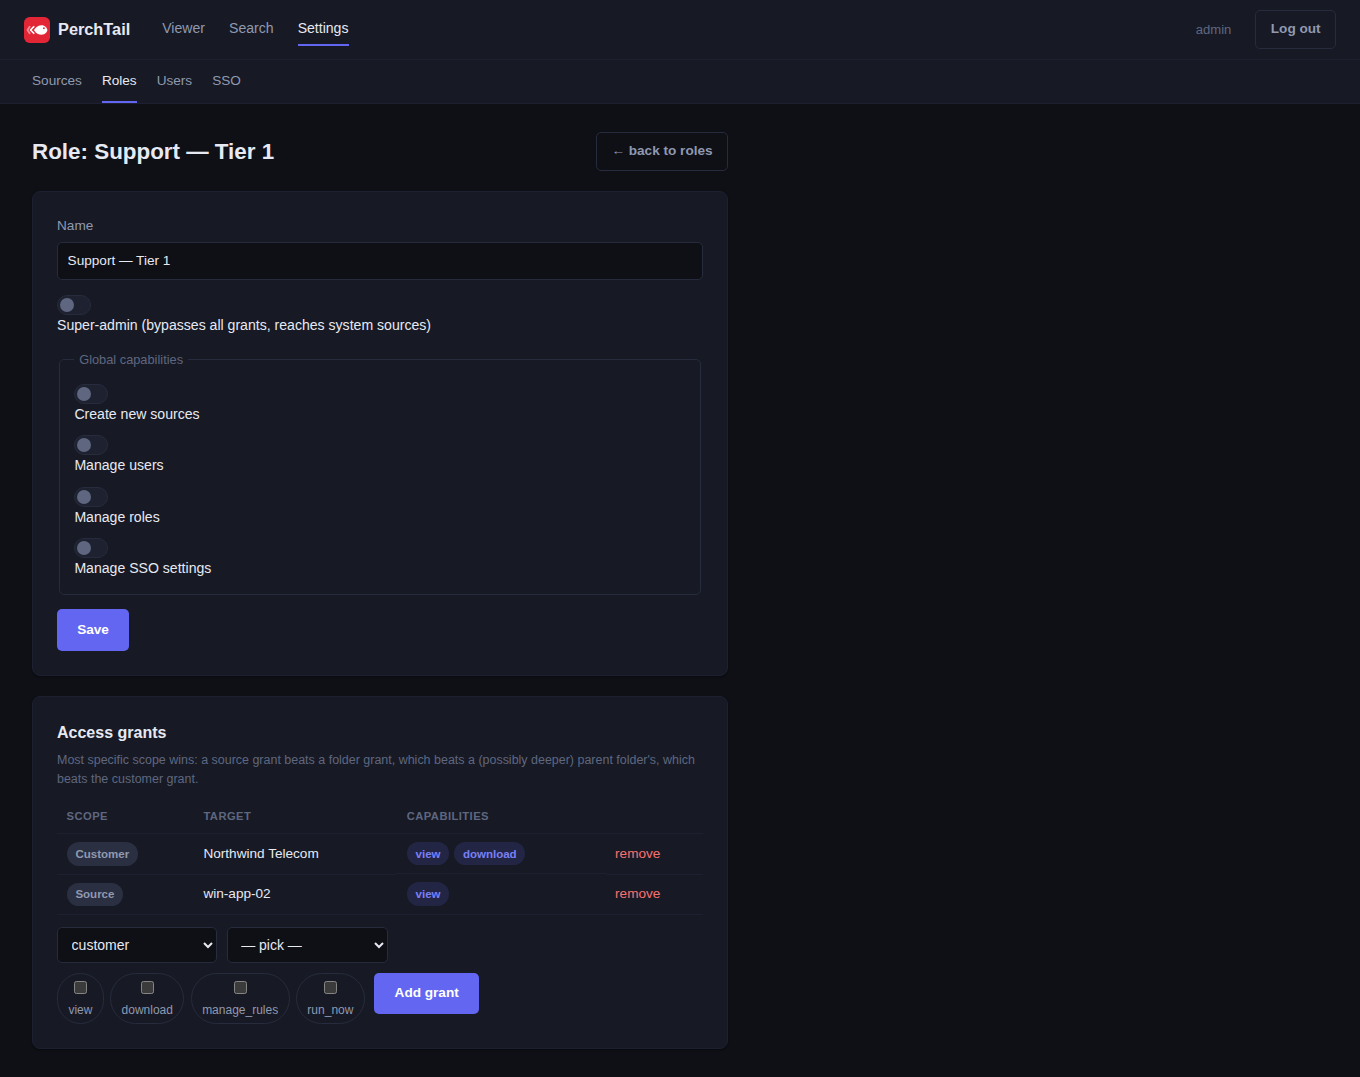
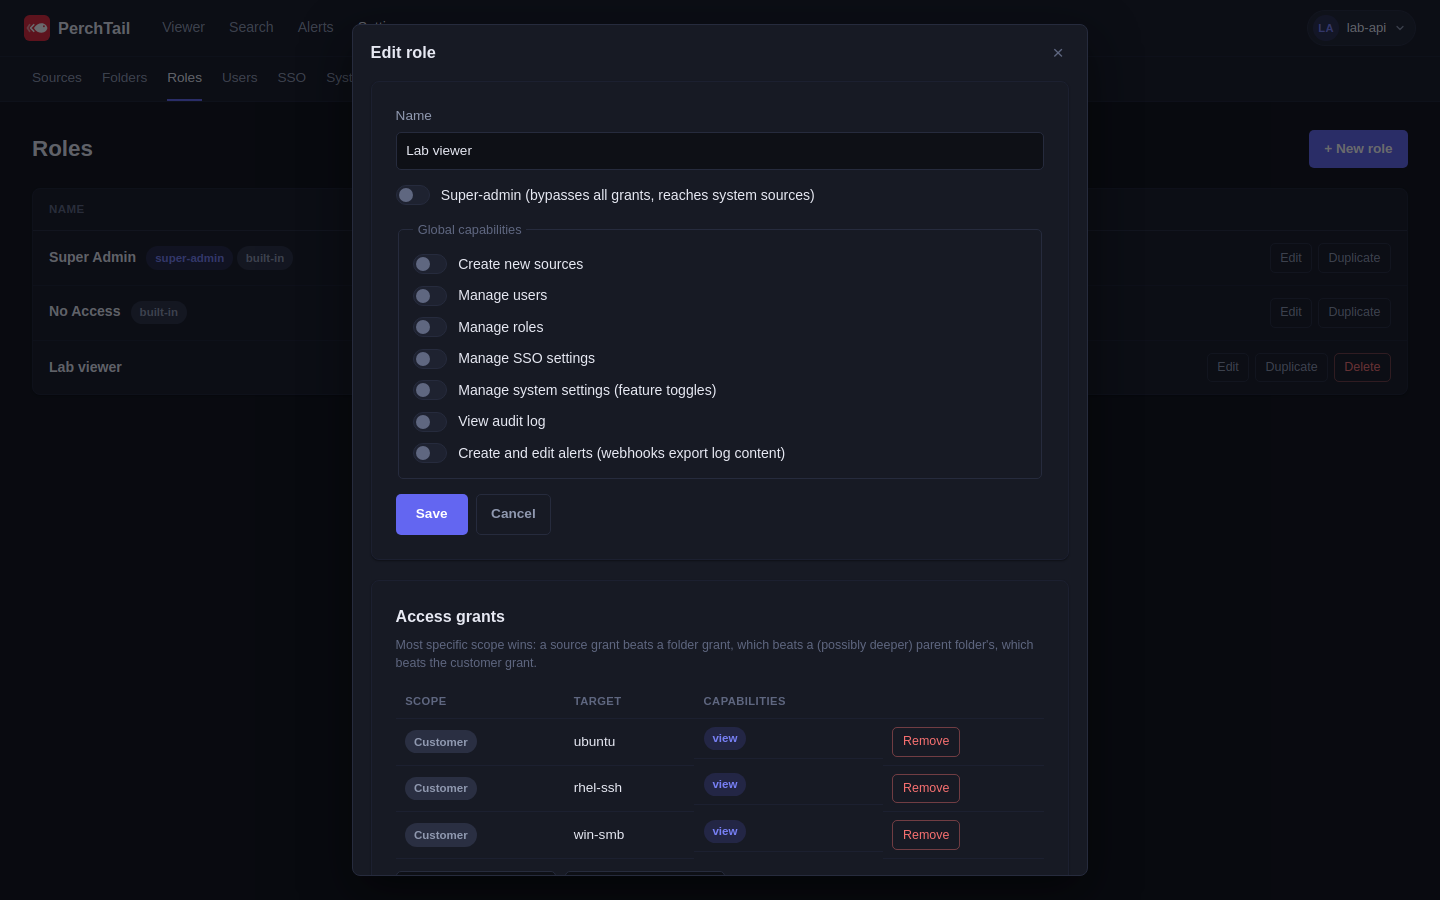
docs(readme): bring the README up to 0.6.0
The README still described 0.5.0. The status now lists what 0.6.0 does (sources incl. WinRM JEA and the push agent, the viewer, access, operations, security work) and what comes in 0.7 and 1.0; the Quick start pins the 0.6.0 image; the three screenshots are retaken from the lab on 0.6.0 (sources list, viewer with the find bar and Find all, role editor in its popup); the JEA guide is linked from Documentation.

diff --git a/README.md b/README.md
@@ -4,11 +4,10 @@
 
 <h1 align="center">PerchTail</h1>
 
-> Live, rule-scoped log browsing across Linux and Windows servers — no agents,
-> nothing mirrored, nothing left behind.
+> Live, rule-scoped log browsing across Linux and Windows servers — agentless by default, nothing mirrored, nothing left behind.
 
 [![License: MIT](https://img.shields.io/badge/license-MIT-blue.svg)](LICENSE)
-[![Status](https://img.shields.io/badge/status-v0.5.0%20%28pre--1.0%29-blue.svg)](#status)
+[![Status](https://img.shields.io/badge/status-v0.6.0%20%28pre--1.0%29-blue.svg)](#status)
 [![CI](https://github.com/quaresma870/perchtail/actions/workflows/ci.yml/badge.svg)](https://github.com/quaresma870/perchtail/actions/workflows/ci.yml)
 
 **Contents:** [Status](#status) · [What it is](#what-it-is) ·
@@ -20,42 +19,17 @@
 
 ## Status
 
-🟢 **v0.5.0 — Phase 1 (MVP), Phase 1b (SSO), Phase 2 (push-agent), and
-Phase 3 (full-text search, saved-search webhook alerts, IdP
-group-claim-to-role auto-mapping, a detailed health endpoint) are all
-complete** (see [ROADMAP.md](ROADMAP.md) for the full phase breakdown).
-Agentless SSH/SFTP, SMB, and WinRM browsing, a Go push-agent for hosts
-that can't be reached inbound, ephemeral fetch (nothing mirrored),
-rule-scoped RBAC, OIDC single sign-on (local accounts still work
-alongside it), and opt-in full-text search with alerting over indexed
-sources all work end-to-end. The Viewer is one explorer across every
-source (list or tree), with tabs from several servers side by side and a
-Notepad++-style Find all; sources can read several folders, their Base
-path can be picked by browsing the host, and the whole configuration can
-be bulk imported and exported as YAML. Deployment-wide feature toggles live under
-Settings → System, including a full admin audit log (every login and
-source/rule/role/user/customer/folder/SSO/system-settings change, with
-type/action/date filters and an admin-configurable retention window).
+🟢 **v0.6.0** is the current release: usable today, still pre-1.0.
 
-Most of a pre-1.0 security-hardening pass is done too — login lockout,
-CSP/security headers, CI-blocking dependency and container-image
-vulnerability scanning, `CREDENTIAL_ENCRYPTION_KEY` rotation with a
-tooled migration path, salted PBKDF2 key derivation, persisted SSH
-host-key pinning, a Sessions page for revoking a login remotely, a
-DNS-rebind-safe outbound webhook fetcher, optional TOTP/MFA for local
-accounts, audit-log tamper-evidence (HMAC hash-chained, periodically
-verified), an operator allowlist for local-disk sources, decompression
-limits, and the fixes from a full code review and CodeQL scan in v0.3.0.
-See ROADMAP.md's "Security hardening" section for what's still open
-(mainly a formal third-party review). Covered
-end-to-end by `pytest` (backend), `vitest` (frontend units), and a
-Playwright suite that drives the real browser UI against real SSH/SMB
-test servers, not just mocks. Still pre-1.0 otherwise: SAML isn't built
-(OIDC already covers Azure AD/Entra ID, Okta, Google Workspace,
-Keycloak/Authentik, so it's only getting built if a real need shows up),
-and it hasn't seen production traffic beyond the maintainer's own use.
-See [CHANGELOG.md](CHANGELOG.md) for what's actually shipped versus
-planned.
+- **Sources:** SSH/SFTP, SMB and WinRM without installing anything on the server (WinRM also through a read-only JEA endpoint that needs no administrator account), and a Go push agent for hosts that can't be reached inbound. A source can read several folders. Every open is a fresh fetch; nothing is mirrored.
+- **Viewer:** one explorer across every source, as a list or a tree, with each file's size, a status dot per source, folders that refresh themselves and an advanced filter across sources and folders. A CodeMirror editor with tabs from several servers, Tail that fetches only the new lines, one find bar with Find all over files of any size, compare, beautify, highlights and bookmarks.
+- **Access:** roles scoped by customer, folder and source; local accounts with a password policy (NIST defaults) and optional TOTP; OIDC single sign-on with group-to-role mapping.
+- **Operations:** settings in popups, an update check, a detailed health endpoint, an audit log that is hash-chained and verified, bulk YAML import and export.
+- **Security work so far:** login lockout, CSP and security headers, credential encryption with key rotation, SSH host-key pinning, session revocation, a DNS-rebind-safe webhook fetcher, CodeQL, gosec, Bandit, zizmor, fuzz and property tests in CI.
+
+**What's next.** 0.7 is the last feature release before 1.0. It removes the content index and the full-text Search page, so nothing from the logs is stored, and adds a file-name index with one search across sources, folders and files, live alerts, PostgreSQL support, push-agent upgrades from the portal, user groups and temporary access, notifications and API tokens. 1.0 adds no features: load tests and a sizing guide, OWASP ZAP, OpenSSF Scorecard and provenance in CI, and an external pentest. See [ROADMAP.md](ROADMAP.md) and [CHANGELOG.md](CHANGELOG.md).
+
+Tested with `pytest` (backend), `vitest` (frontend units) and a Playwright suite that drives the real UI against real SSH and SMB servers, and every release candidate is retested in a lab with Linux, Windows and push-agent sources before the release. SAML isn't built (OIDC covers Entra ID, Okta, Google Workspace and Keycloak), and PerchTail hasn't seen production traffic beyond the maintainer's own use.
 
 ## What it is
 
@@ -63,12 +37,7 @@ PerchTail gives support and ops engineers one place to browse, open, and downloa
 log files live from a mix of Linux and Windows servers — without installing
 anything on those servers, and without permanently copying their content anywhere.
 
-You configure **sources** (a host and how to reach it — SSH/SFTP, SMB, or WinRM),
-attach **rules** (which files and folders are visible, glob or regex, evaluated in
-order), and PerchTail lists and fetches matching files live, opened in a
-Notepad++/VS-Code-style viewer and downloadable as single files or zipped folders.
-Nothing is proactively mirrored or cached across views — every open is a fresh
-fetch, because the logs behind it are still being written.
+You configure **sources** (a host and how to reach it — SSH/SFTP, SMB, WinRM, or a push agent), attach **rules** (which files and folders are visible, glob or regex, evaluated in order), and PerchTail lists and fetches matching files live, opened in a Notepad++/VS-Code-style viewer and downloadable as single files or zipped folders. Nothing is proactively mirrored or cached across views — every open is a fresh fetch, because the logs behind it are still being written.
 
 RBAC is built in from day one: access is scoped per customer/environment, not just
 per user, so a support engineer working one account can't accidentally browse
@@ -104,19 +73,17 @@ verify anything that matters to your decision against current docs.
 
 ## Screenshots
 
-Sources, grouped by customer, with a protocol badge and connection status per row:
+Sources, with their customer, protocol and status, and the actions on each row:
 
-![Sources list, showing SSH/SMB/WinRM sources grouped under two customers with protocol badges and status](docs/images/screenshot-sources.png)
+![Sources list with SSH, SMB, WinRM and push-agent sources, their customer, protocol badge and status](docs/images/screenshot-sources.png)
 
-The viewer: a lazy-loaded folder tree feeding a CodeMirror pane, with `[error]`/`[warn]`
-tokens colored and error lines tinted:
+The viewer: the explorer with file sizes and a status dot per source, a log open with error lines tinted, the find bar ("1 of 1,823") and Find all listing every matching line below:
 
-![Viewer open on an app.log file, showing colored log-level tokens and a highlighted error line](docs/images/screenshot-viewer.png)
+![Viewer with app.log open, the find bar searching ERROR and the Find all panel listing the matching lines](docs/images/screenshot-viewer.png)
 
-A role's access grants — most-specific-scope-wins, resolved from customer down to a
-single source:
+A role in its editor, opened over the roles list: global capabilities and access grants, the most specific scope winning, from customer down to a single source:
 
-![Role editor showing toggle switches for global capabilities and a table of customer/source access grants](docs/images/screenshot-role-editor.png)
+![Role editor in a popup, with switches for global capabilities and a table of customer access grants](docs/images/screenshot-role-editor.png)
 
 ## Quick start
 
@@ -154,7 +121,7 @@ instead, replace `build: .` in `docker-compose.yml` with the image of that
 version (amd64 and arm64), for example:
 
 ```yaml
-    image: ghcr.io/quaresma870/perchtail:0.5.0
+    image: ghcr.io/quaresma870/perchtail:0.6.0
 ```
 
 Each [GitHub release](https://github.com/quaresma870/perchtail/releases)
@@ -303,6 +270,7 @@ publish in `docker-compose.yml` entirely rather than binding it to loopback.
   PerchTail on a Linux host without Docker, with a systemd unit
 - [docs/source-setup.md](docs/source-setup.md) — how to prepare a Linux or
   Windows server so PerchTail can reach it over SSH/SFTP, SMB, or WinRM
+- [docs/examples/jea](docs/examples/jea/README.md) — the read-only JEA endpoint for WinRM sources without a remote shell or administrator account
 - [docs/sso-setup.md](docs/sso-setup.md) — registering PerchTail as an OIDC
   client and setting up group-to-role mapping, with per-provider notes for
   Azure AD/Entra ID, Okta, Google Workspace, and Keycloak/Authentik
